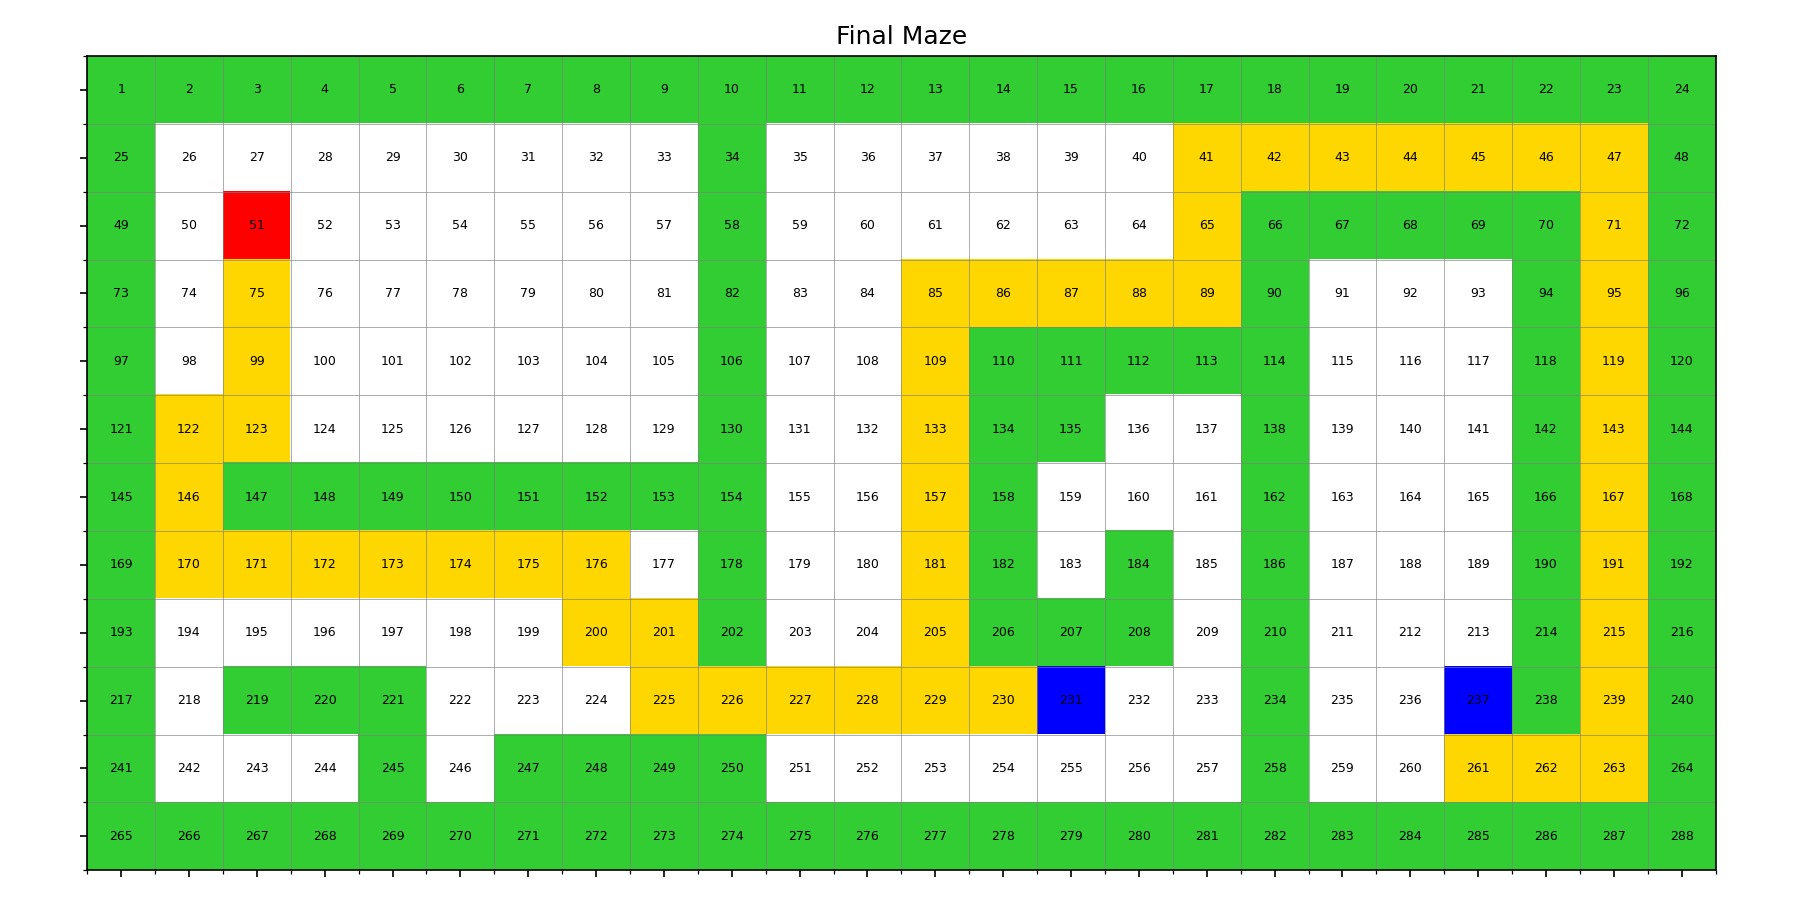
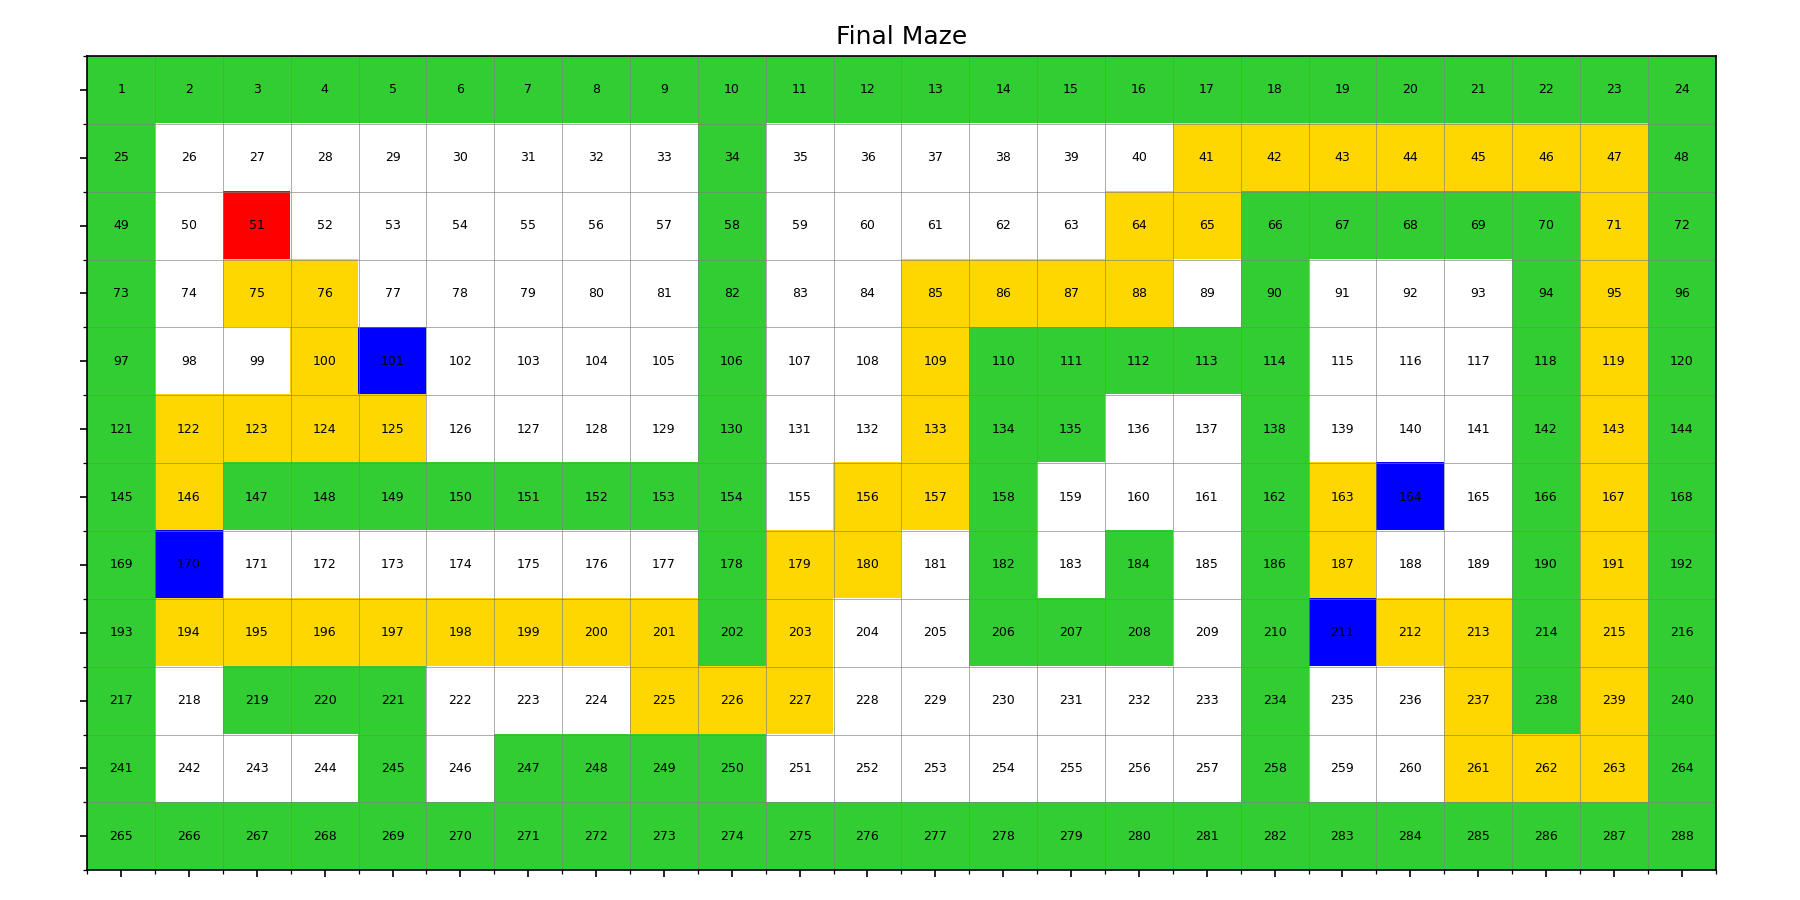
makes changes

diff --git a/main.py b/main.py
@@ -117,7 +117,7 @@ def multi_target_path(start, goals):
 # - You can change or remove the seed for different target sets
 # -------------------------------------------------------------------------------------
 def set_random_targets(min_targets=2, max_targets=4):
-    random.seed(200)  # Change this seed if you want different results
+    random.seed(455)  # Change this seed if you want different results
     for i in range(ROWS):
         for j in range(COLS):
             if maze[i][j] == 9:
